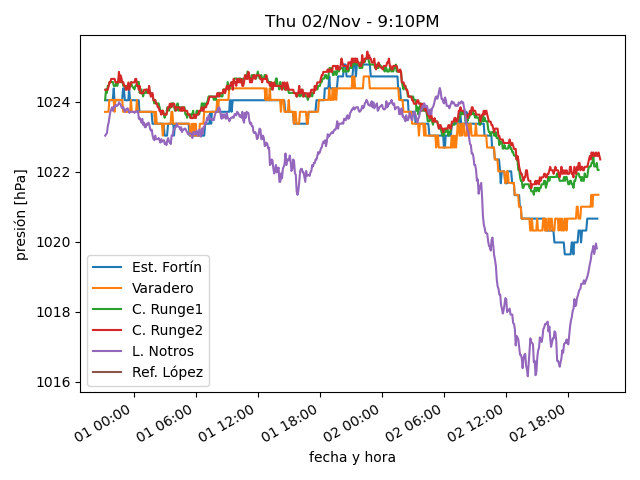
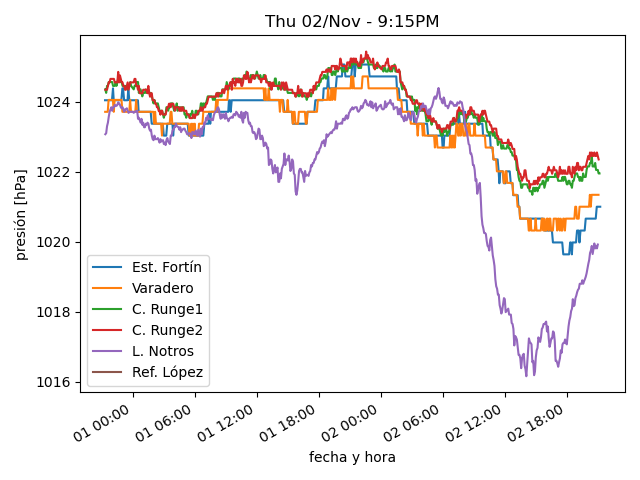
actualiza datos

diff --git a/estaciones/estacion1.html b/estaciones/estacion1.html
@@ -18,32 +18,32 @@
     </tr>
     <tr>
      <td class="stats_data">
-      8:48PM
+      9:14PM
      </td>
     </tr>
     <tr>
      <td class="stats_data">
-      8.6⁰C
+      8.3⁰C
      </td>
     </tr>
     <tr>
      <td class="stats_data">
-      2.6⁰C
+      2.4⁰C
      </td>
     </tr>
     <tr>
      <td class="stats_data">
-      66.0%
+      66.3%
      </td>
     </tr>
     <tr>
      <td class="stats_data">
-      1020.66hPa
+      1021.0hPa
      </td>
     </tr>
     <tr>
      <td class="stats_data">
-      13.7/22.5 km/hr WSW
+      9.6/11.8 km/hr W
      </td>
     </tr>
     <tr>

diff --git a/estaciones/estacion3.html b/estaciones/estacion3.html
@@ -18,32 +18,32 @@
     </tr>
     <tr>
      <td class="stats_data">
-      8:54PM
+      9:09PM
      </td>
     </tr>
     <tr>
      <td class="stats_data">
-      7.8⁰C
+      7.6⁰C
      </td>
     </tr>
     <tr>
      <td class="stats_data">
-      2.2⁰C
+      2.3⁰C
      </td>
     </tr>
     <tr>
      <td class="stats_data">
-      67.9%
+      69.0%
      </td>
     </tr>
     <tr>
      <td class="stats_data">
-      1010.33hPa
+      1010.23hPa
      </td>
     </tr>
     <tr>
      <td class="stats_data">
-      4.5/6.7 km/hr WSW
+      4.7/7.1 km/hr WSW
      </td>
     </tr>
     <tr>

diff --git a/estaciones/estacion2.html b/estaciones/estacion2.html
@@ -18,7 +18,7 @@
     </tr>
     <tr>
      <td class="stats_data">
-      8:54PM
+      9:04PM
      </td>
     </tr>
     <tr>
@@ -33,7 +33,7 @@
     </tr>
     <tr>
      <td class="stats_data">
-      75.5%
+      75.2%
      </td>
     </tr>
     <tr>
@@ -43,7 +43,7 @@
     </tr>
     <tr>
      <td class="stats_data">
-      14.3/16.4 km/hr WNW
+      11.7/14.2 km/hr WNW
      </td>
     </tr>
     <tr>

diff --git a/estaciones/estacion5.html b/estaciones/estacion5.html
@@ -18,7 +18,7 @@
     </tr>
     <tr>
      <td class="stats_data">
-      8:45PM
+      9:00PM
      </td>
     </tr>
     <tr>
@@ -38,7 +38,7 @@
     </tr>
     <tr>
      <td class="stats_data">
-      1022.38hPa
+      1022.49hPa
      </td>
     </tr>
     <tr>
